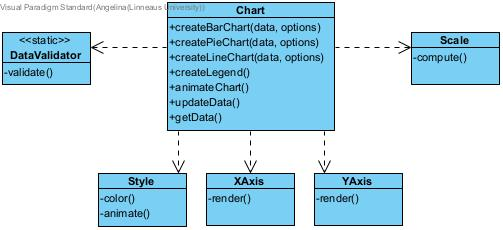
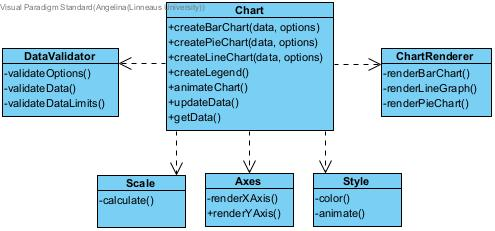
Add logic for calculating y-axis values

diff --git a/lib/chart.js b/lib/chart.js
@@ -3,13 +3,16 @@
  * @file lib/chart.js
  */
 
+import { Scale } from '../lib/helpers/scale.js'
+
 export class Chart {
     #options = {
         chartWidth: 700,
         chartHeight: 500,
         title: "Data Chart",
         color: "blue",
-        animated: false
+        animated: false,
+        format: "canvas"
     }
     // Canvas Element
 
@@ -17,7 +20,39 @@ export class Chart {
 	}
   
 	createBarChart(data, options) {
-		// TODO
+        // Validate options & data
+        // Calculate scales on Y- and X-axis
+        // Render Y- and X-axis
+        // Assign colors, animations
+        // Render the bars/lines
+        // Return the chart as canvas/SVG
+
+        // For testing purposes; remove later
+        data = [
+            {
+                text: "Stockholm",
+                number: 22
+            },
+            {
+                text: "Rome",
+                number: 5
+            },
+            {
+                text: "Berlin",
+                number: 78
+            },
+            {
+                text: "Madrid",
+                number: 14
+            },
+            {
+                text: "Prague",
+                number: 40
+            }
+        ]
+
+        const scale = new Scale()
+        scale.calculateBarChartYAxis(data)
 
         console.log("Bar chart works!", data)
 	}
@@ -29,7 +64,11 @@ export class Chart {
 	}
 
 	createPieChart(data, options) {
-		// TODO
+        // Validate options & data
+        // Calculate pie percentages
+        // Assign colors, animations
+        // Render the pie
+        // Return the chart as canvas/SVG
 
         console.log("Pie chart works!", data)
 	}

diff --git a/lib/helpers/scale.js b/lib/helpers/scale.js
@@ -1,0 +1,44 @@
+/**
+ * @module Defines a class for calculating chart scales.
+ * @file helpers/scale.js
+ */
+
+export class Scale {
+    #yAxisPoints = 4
+
+    constructor() {
+    }
+
+    calculateBarChartYAxis(data) {
+        let maxDataValue = -Infinity
+        let minDataValue = Infinity
+        let yAxisValues = []
+
+        data.forEach((object) => {
+            const dataValue = object.number
+            if (dataValue > maxDataValue) {
+                maxDataValue = dataValue
+            }
+        })
+        data.forEach((object) => {
+            const dataValue = object.number
+            if (dataValue < minDataValue) {
+                minDataValue = dataValue
+            }
+        })
+
+        const startValue = 0 // Bar charts should start at 0 so they are not misleading
+        const maxValue = (Math.ceil(maxDataValue / 10)) * 10 
+
+        console.log(startValue, maxValue)
+
+        let currentValue = 0
+        for (let i = 0; i < this.#yAxisPoints; i++) {
+            currentValue += maxValue / this.#yAxisPoints
+            yAxisValues.push(currentValue)
+        }
+
+        yAxisValues.unshift(startValue)
+        console.log(yAxisValues)
+    }
+}
